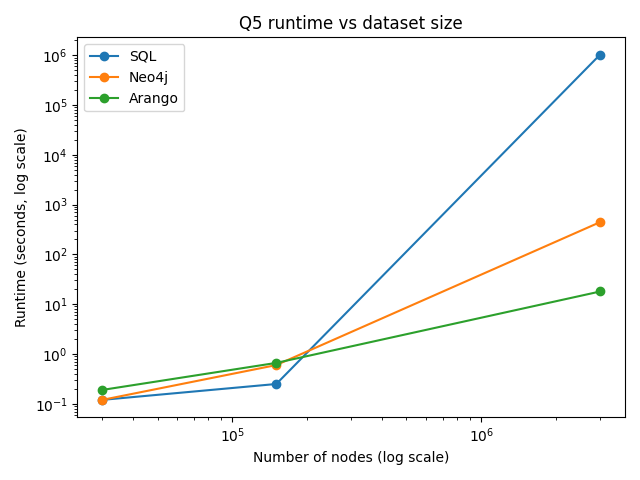
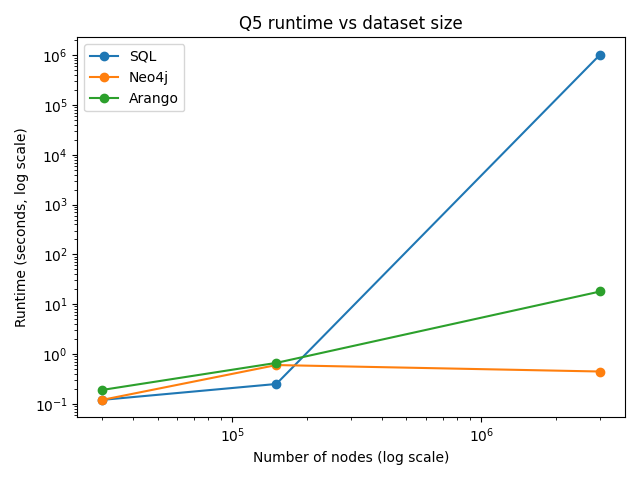
oupsies

diff --git a/src/tools/ploter_queries.py b/src/tools/ploter_queries.py
@@ -47,7 +47,7 @@ queries = {
     },
     "Q5": {
         "SQL": to_seconds(["120 ms", "250 ms", "286 h"]),
-        "Neo4j": to_seconds(["120 ms", "600 ms", "445 s"]),
+        "Neo4j": to_seconds(["120 ms", "600 ms", "445 ms"]),
         "Arango": to_seconds(["190 ms", "663 ms", "18 s"]),
     },
     "Q6": {
@@ -63,7 +63,7 @@ for q, data in queries.items():
         plt.plot(sizes, vals, marker='o', label=db)
     plt.xscale('log')
     plt.yscale('log')
-    plt.xlabel("Number of edges (log scale)")
+    plt.xlabel("Number of nodes (log scale)")
     plt.ylabel("Runtime (seconds, log scale)")
     plt.title(f"{q} runtime vs dataset size")
     plt.legend()
